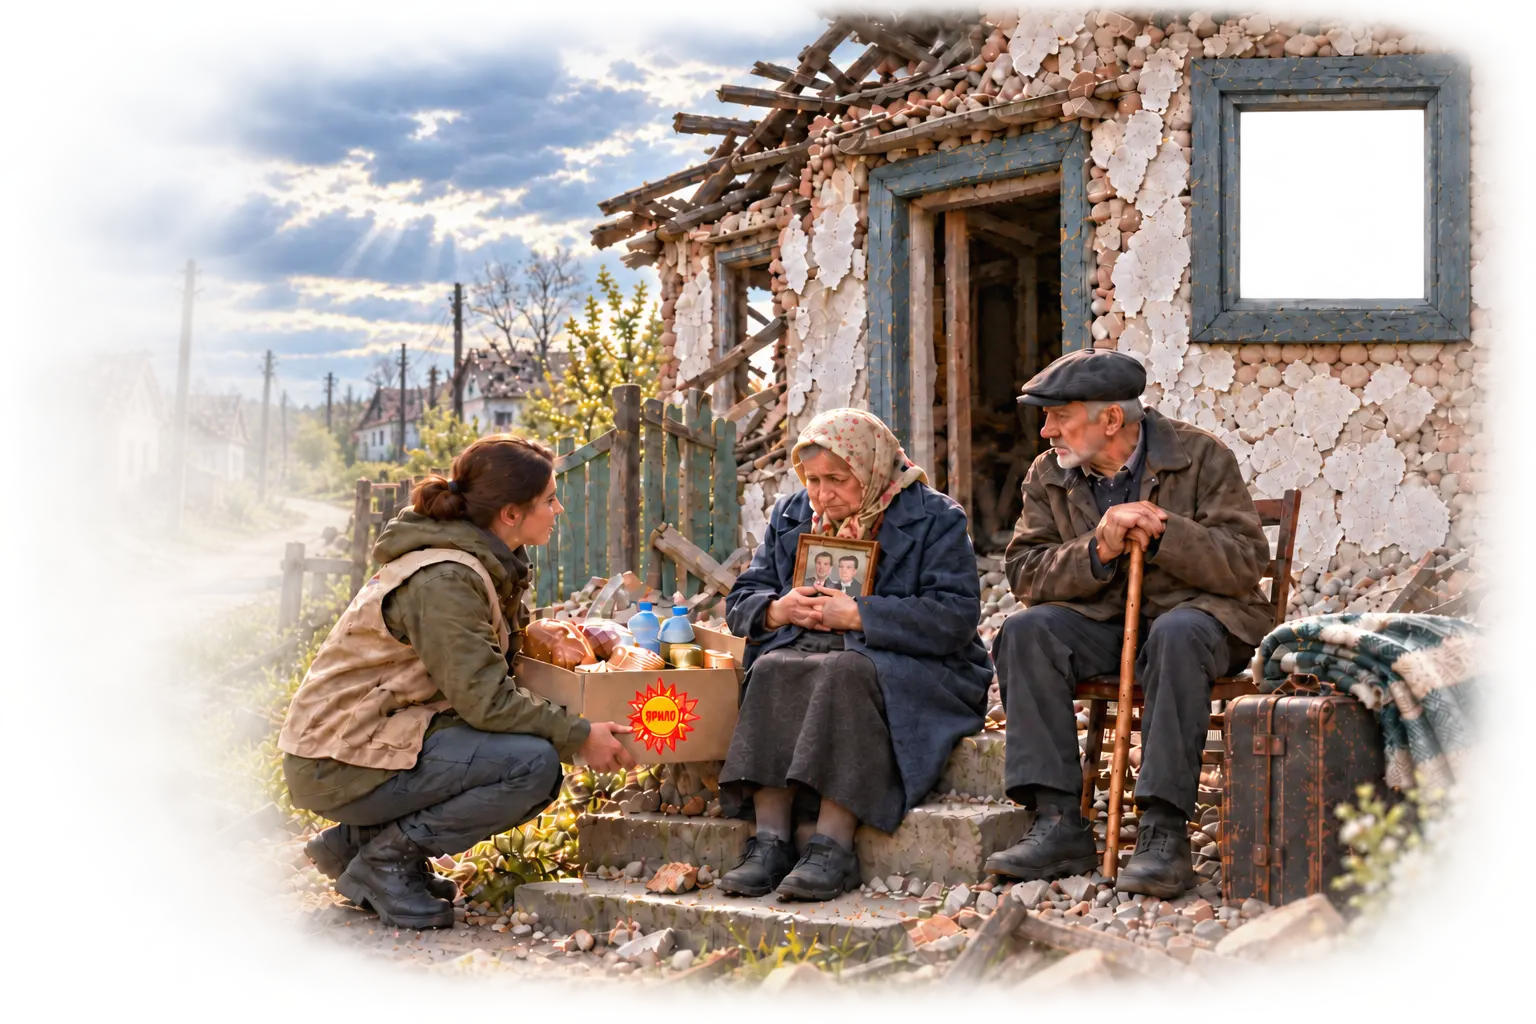
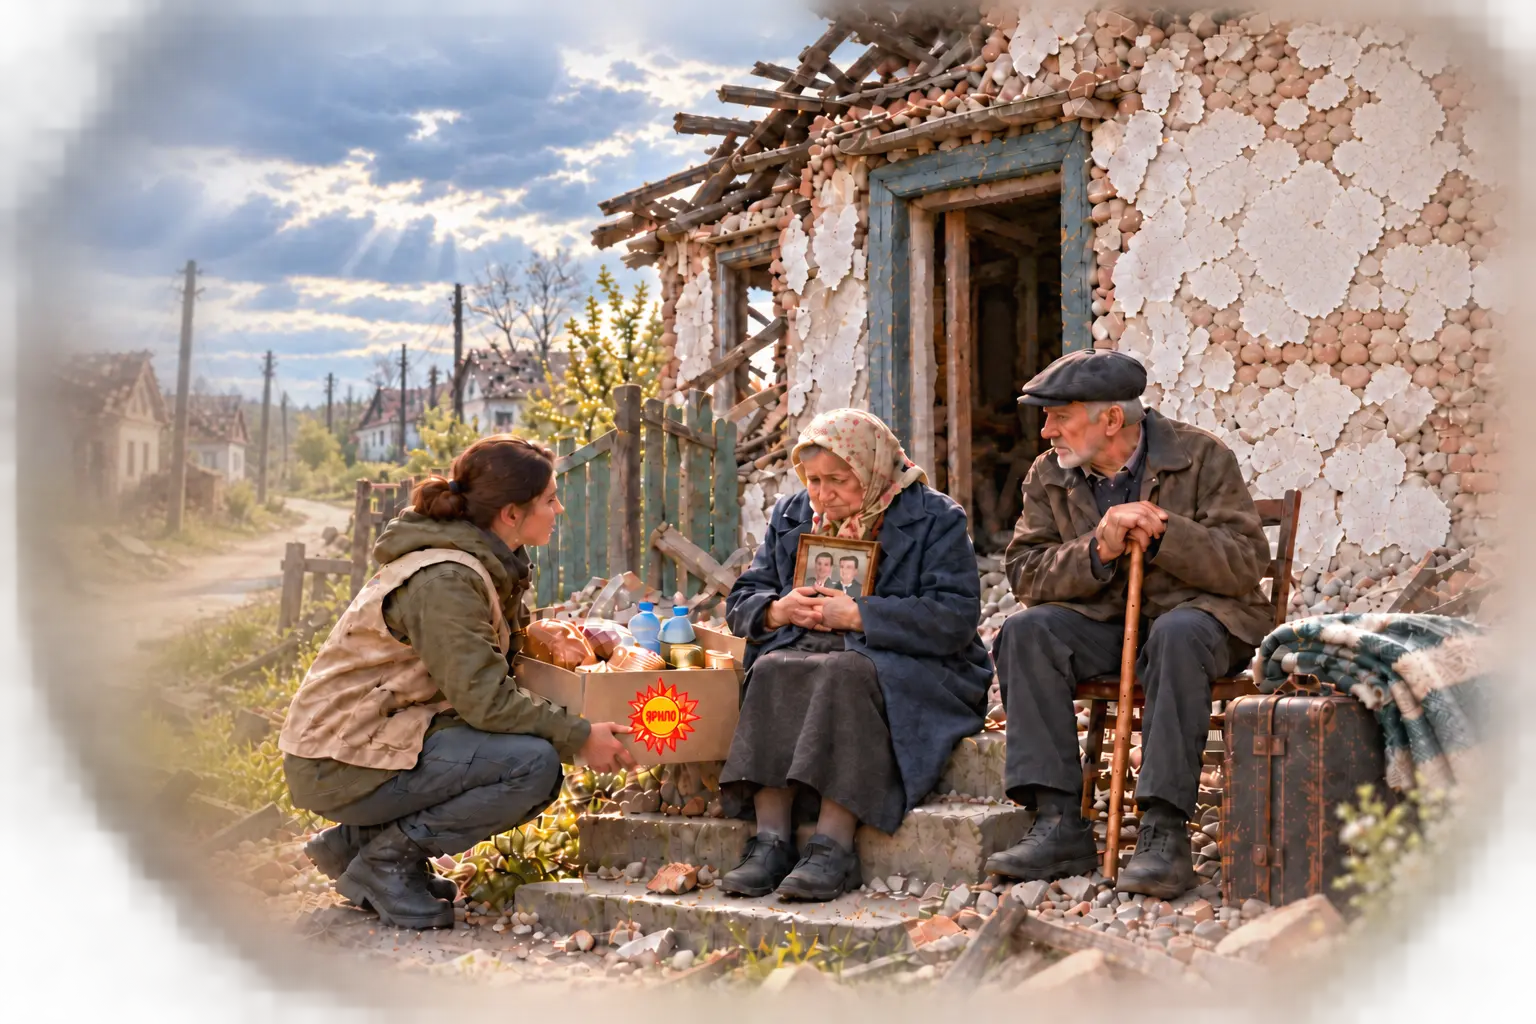
Add files via upload

diff --git a/hero-cover.css b/hero-cover.css
@@ -63,3 +63,33 @@
 @media(min-width:541px) and (max-width:1000px) {
  .hero .hero-donation { right:0; top:6%; width:21%; }
 }
+
+/* Balanced wider illustration, safe text gutters, fine gold QR outline. */
+.hero .container.hero-grid {
+ box-sizing:border-box;
+ width:calc(100% - 48px)!important;
+ max-width:1600px!important;
+ margin-left:auto!important;
+ margin-right:auto!important;
+ padding:0!important;
+ position:relative;
+ left:auto;
+ right:auto;
+ transform:none;
+}
+.hero .hero-grid > div:first-child { min-width:0; position:relative; z-index:1; }
+.hero .hero-qr-link {
+ border:1px solid #c6a351;
+ padding:5px;
+ background:#fff;
+ border-radius:4px;
+ box-shadow:none;
+}
+@media(min-width:1001px) {
+ .hero .container.hero-grid { grid-template-columns:minmax(0,36fr) minmax(0,64fr); gap:14px!important; }
+ .hero .hero-cover { margin-top:4px; }
+ .hero .hero-donation { right:0; top:2%; width:19%; min-width:138px; }
+}
+@media(max-width:540px) {
+ .hero .container.hero-grid { width:calc(100% - 32px)!important; }
+}

diff --git a/hero-cover.js b/hero-cover.js
@@ -10,7 +10,7 @@
   const path=home && Object.prototype.hasOwnProperty.call(home,'coverImage') ? home.coverImage : initial;
   if(!path){image.hidden=true;box.classList.add('no-art');}
   else {
-    image.src=path;
+    image.src=path===initial?path+'?v=20261029.4':path;
     box.classList.toggle('custom-art',path!==initial);
     image.onerror=()=>{image.hidden=true;box.classList.add('no-art');};
   }
